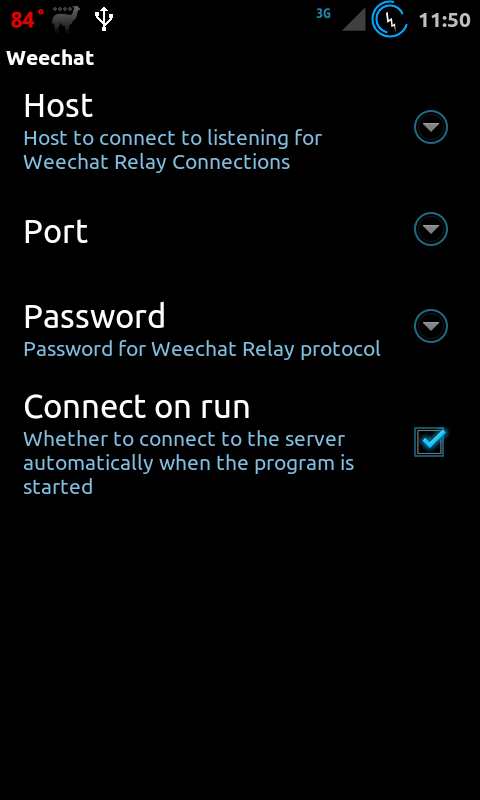
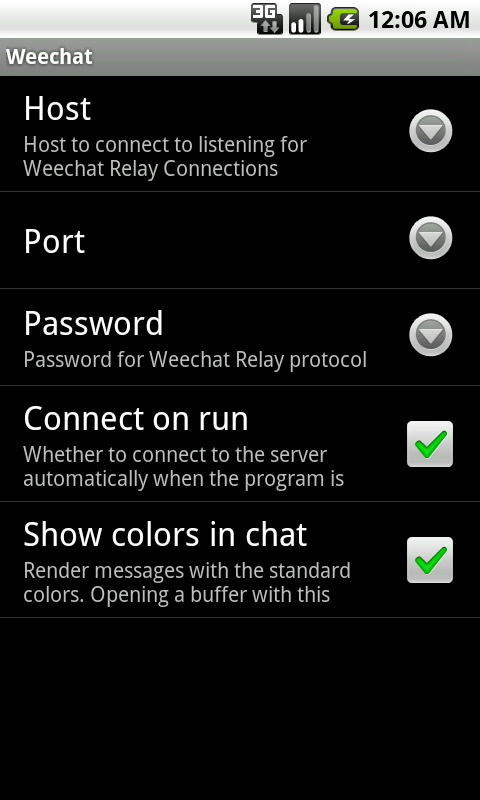
Release v0.02
Updated Readme for 0.02, and added/update screenshots.

diff --git a/Readme.md b/Readme.md
@@ -1,36 +1,30 @@
-Weechat Android Relay Client v0.01
+Weechat Android Relay Client v0.02
 ==================================
-This is the first "release" of my android relay client for weechat.
-It should be treated as pre-alpha software, with no expectations of
-functionality.(However, in my limited tests it seems to mostly work)
+This is an Android Weechat Relay client.
+It should be treated as pre-alpha software, with no expectations of functionality.(However, in my limited tests it seems to mostly work)
 
-Download
---------
-USE AT YOUR OWN RISK! This is alpha software and I am not responsible
-if your device bursts into flames, you lose all of your data, or if
-anything else bad happens.
+###Download
+USE AT YOUR OWN RISK! This is alpha software and I am not responsible if your device bursts into flames, you lose all of your data, or if anything else bad happens.
 
-Open the following link your device, which will download the file.  Click on it and choose to install.
-[Link to apk](https://github.com/ubergeek42/weechat-android/raw/master/releases/weechat.apk)
+Either scan the QR code, or click the link to download the apk.  Click on it and choose to install. [Download Link](https://github.com/downloads/ubergeek42/weechat-android/weechat.apk)
 
-Please report any bugs/feature requests here on github, or send me an email: kj@ubergeek42.com
+![Download](https://chart.googleapis.com/chart?cht=qr&chs=200x200&chl=https://github.com/downloads/ubergeek42/weechat-android/weechat.apk)
 
-Basic Usage
------------
-To begin using it, press menu, then preferences.  Enter the host, port and password for your
-weechat relay server.  Then menu->connect.
+### Bug Reports and Feature Requests Welcome!
+Please report any bugs or feature requests here on github, or send me an email: kj@ubergeek42.com
 
-When you are in a buffer, you can view the nicklist by pressing menu->nicklist.
+###Basic Usage
+At the main screen, press menu, then choose preferences.
+Configure your hostname, port, and password.  You can also choose to connect automatically next time the app runs, or enable colors(May be a little slow at times).
 
-Screenshots
------------
-![Chat View](https://github.com/ubergeek42/weechat-android/raw/master/releases/chat-channel.png)
-![Buffer List](https://github.com/ubergeek42/weechat-android/raw/master/releases/buffers-tab.png)
-![Preferences page](https://github.com/ubergeek42/weechat-android/raw/master/releases/preferences.png)
+Then press Menu->Connect to connect to the server. If successful you will see a list of your weechat buffers.  Clicking on a buffer opens it in a new tab.  A buffer currently displays the 50 most recent lines.  I plan to make this configurable in the future.
+
+To see the nicklist for the current buffer, press menu, then choose nicklist.
+
+The back button exits(and disconnects).  There is currently no support for running in the background.
 
 
-Source Code
------------
+###Source Code
 There are 3 basic parts to this, the android application, the java library which provides most of
 the functionality of connecting to the weechat relay server, and an example client showing the basic
 features of that library.
@@ -46,3 +40,17 @@ To build the android application, you will need to 'cd weechat', then run 'andro
 For more details about Weechat and the Relay Protocol:
 * Weechat - http://www.weechat.org/
 * Relay Protocol - http://www.weechat.org/files/doc/devel/weechat_relay_protocol.en.html
+
+###Screenshots
+<a href="https://github.com/ubergeek42/weechat-android/raw/master/releases/chat-channel.png"><img src="https://github.com/ubergeek42/weechat-android/raw/master/releases/chat-channel.png" width="400px"></a>
+<a href="https://github.com/ubergeek42/weechat-android/raw/master/releases/preferences.png"><img src="https://github.com/ubergeek42/weechat-android/raw/master/releases/preferences.png" height="400px"></a>
+<a href="https://github.com/ubergeek42/weechat-android/raw/master/releases/buffers-tab.png"><img src="https://github.com/ubergeek42/weechat-android/raw/master/releases/buffers-tab.png" height="400px"></a>
+<a href="https://github.com/ubergeek42/weechat-android/raw/master/releases/buffer-colors.png"><img src="https://github.com/ubergeek42/weechat-android/raw/master/releases/buffer-colors.png" height="400px"></a>
+
+### Changelog
+#### v0.02
+* Colors!
+* A few bugfixes
+
+#### v0.01
+* Initial Release
